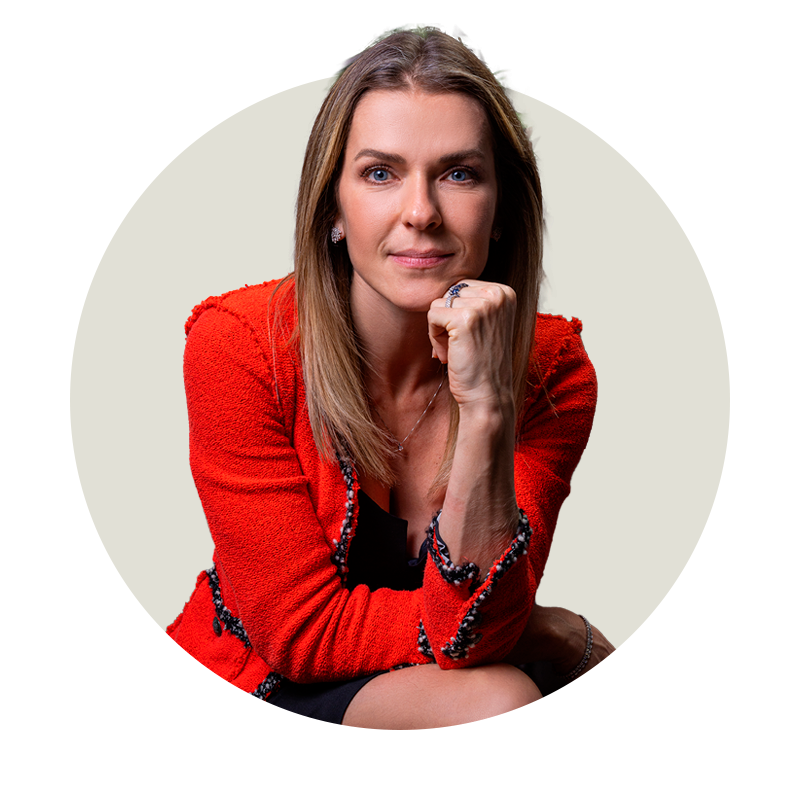
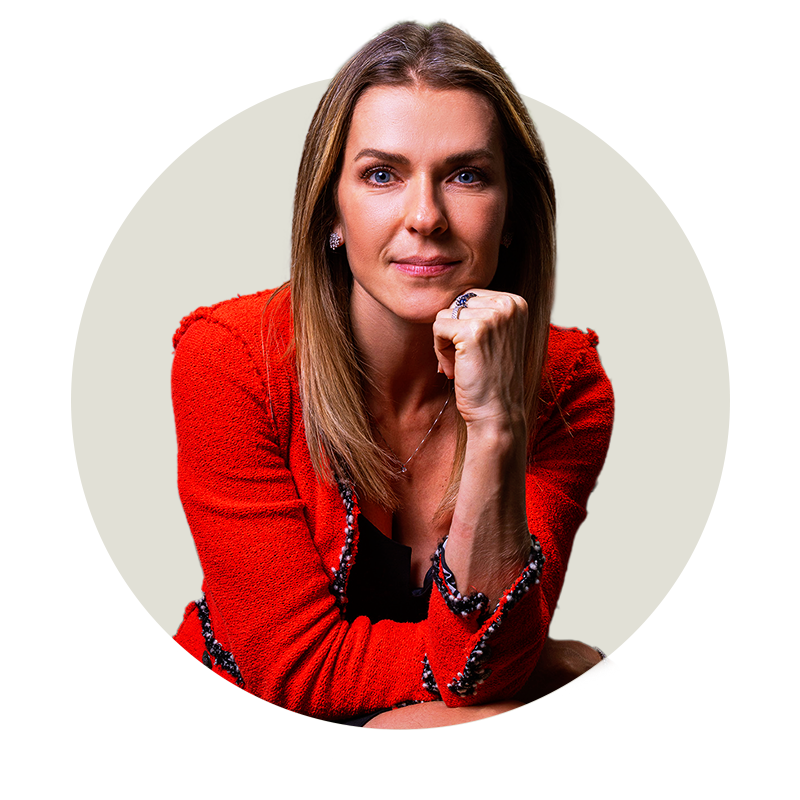
Layout changes

Changed region(s): [[0.1875, 0.0, 0.7812, 0.9375]]

diff --git a/src/components/OurTeamSection.tsx b/src/components/OurTeamSection.tsx
@@ -1,0 +1,333 @@
+// src/components/OurTeamSection.tsx
+import React, { useState } from 'react';
+import { motion, AnimatePresence } from 'framer-motion';
+import { X } from 'lucide-react';
+
+interface Person {
+  id: string;
+  name: string;
+  title: string;
+  email: string;
+  image: string;
+  linkedinUrl: string;
+  description: string;
+}
+
+const persons: Person[] = [
+  {
+    id: 'fernanda-amorim',
+    name: 'Fernanda Amorim',
+    title: 'Managing Partner',
+    email: 'fernanda.amorim@dayonetalent.com',
+    image: '/img/Fernanda.png',
+    linkedinUrl: 'https://www.linkedin.com/in/fernandaamorim/',
+    description: 
+        `Fernanda Amorim brings over 20 years of experience in executive search, with a strong track record leading more than 400 projects, and a reputation of delivering tailored, high-impact solutions with assertiveness and a sharp insight into digital transformation and human connections. \n
+        She built her career in global firms such as KPMG, Michael Page, Page Executive, Oracle, and Indeed, where she developed deep expertise in business strategy and strategic hiring, as well as consultative B2B leadership. \n
+        Most recently, as a Sr. Executive Partner at FIND HR, she led top management recruitment across players in tech, telecom and digital and championed diversity in leadership.`
+  },
+  {
+    id: 'claudio-guerreiro',
+    name: 'Claudio Guerreiro',
+    title: 'Managing Partner',
+    email: 'claudio.guerreiro@dayonetalent.com',
+    image: '/img/Claudio.png',
+    linkedinUrl: 'https://www.linkedin.com/in/claudio-guerreiro/',
+    description: 
+        `With over 20 years of experience in the technology sector, acquired at companies such as SAP and IBM, Claudio Guerreiro built a solid career as an executive before becoming an entrepreneur and entering the executive search market, where he worked as a partner at renowned consultancies such as 2Get and Heidrick & Struggles, in addition to being a board member of innovative companies. \n
+        At FIND HR, he led the company's strategic expansion, expanding its service offering and strengthening its presence in executive recruitment for technology and digital transformation roles. \n
+        His approach combines deep industry knowledge with a strong results-oriented mindset, focusing on assertiveness and excellence in executive recruitment.`
+  },
+  {
+    id: 'carla-viborny',
+    name: 'Carla Vyborny',
+    title: 'Associate',
+    email: 'carla.vyborny@dayonetalent.com',
+    image: '/img/Carla.png',
+    linkedinUrl: 'https://www.linkedin.com/in/carla-vyborny-96554523/',
+    description: 
+        `Carla has over 15 years of experience in executive recruitment, with a strong focus on leadership and senior management roles. She is recognized for her ability to deliver highly accurate, tailored solutions by combining business acumen, deep market knowledge, and a human-centered approach to professional connections. \n
+        She built her career in specialized recruitment consultancies and executive search firms, working with companies such as Michael Page, Hays, Robert Walters, FIND, and Vyborny’s Consulting. She has contributed to strategic projects for major groups in the technology, industrial, and retail sectors. \n
+        Throughout her career, she has developed expertise in building high-performance teams and supporting companies during moments of transformation, growth, or restructuring—always with a focus on strategic leadership and diversity. Her work emphasizes innovation, agility, and real business impact.`
+  },
+  {
+    id: 'roberta-viborny',
+    name: 'Roberta Vyborny',
+    title: 'Associate',
+    email: 'roberta.vyborny@dayonetalent.com',
+    image: '/img/Roberta.png',
+    linkedinUrl: 'https://www.linkedin.com/in/roberta-vyborny-389ba123/',
+    description: 
+        `An experienced professional with over 10 years in recruitment and selection, Roberta has a strong track record in strategic and leadership roles. Throughout her career, she has developed solid expertise in attracting, selecting, and developing talent for mid- and senior-level positions, directly contributing to the formation of high-performance teams and the strengthening of organizational culture in major companies. \n
+        Her experience includes working as a Manager at Calzedonia Group, a global Italian retail company, where she led recruitment processes and market mapping initiatives. In addition, she has collaborated with specialized recruitment consultancies, delivering strategic projects for leading groups in the retail, industrial, and technology sectors—always focused on results, agility, and excellence in delivery. \n
+        She is recognized for her analytical mindset, organizational diagnostic skills, and ability to align professional profiles with the unique needs of each business.`
+  }
+];
+
+// Group persons by their title
+const groupedPersons = persons.reduce((acc, person) => {
+  if (!acc[person.title]) {
+    acc[person.title] = [];
+  }
+  acc[person.title].push(person);
+  return acc;
+}, {} as Record<string, Person[]>);
+
+const formatDescription = (text: string): string[] => {
+  return text.split('\n\n').map(paragraph => paragraph.trim()).filter(p => p.length > 0);
+};
+
+// LinkedIn Icon Component
+const LinkedInIcon = () => (
+  <svg className="w-5 h-5 text-accent hover:text-accent-light transition-colors duration-300" fill="currentColor" viewBox="0 0 24 24">
+    <path d="M20.447 20.452h-3.554v-5.569c0-1.328-.027-3.037-1.852-3.037-1.853 0-2.136 1.445-2.136 2.939v5.667H9.351V9h3.414v1.561h.046c.477-.9 1.637-1.85 3.37-1.85 3.601 0 4.267 2.37 4.267 5.455v6.286zM5.337 7.433a2.062 2.062 0 01-2.063-2.065 2.064 2.064 0 112.063 2.065zm1.782 13.019H3.555V9h3.564v11.452zM22.225 0H1.771C.792 0 0 .774 0 1.729v20.542C0 23.227.792 24 1.771 24h20.451C23.2 24 24 23.227 24 22.271V1.729C24 .774 23.2 0 22.222 0h.003z"/>
+  </svg>
+);
+
+const TeamMember = ({ person }: { person: Person }) => {
+  const [isModalOpen, setIsModalOpen] = useState(false);
+  const paragraphs = formatDescription(person.description);
+
+  const openModal = () => setIsModalOpen(true);
+  const closeModal = () => setIsModalOpen(false);
+
+  return (
+    <>
+      <div className="group overflow-hidden transition-all duration-300 relative">
+        <div className="relative z-10">
+          {/* Image Section */}
+          <div className="p-6 pb-0">
+            <div className="relative mb-6">
+              <motion.img
+                src={person.image}
+                alt={person.name}
+                className="w-full max-w-xs mx-auto object-cover transition-shadow duration-300 cursor-pointer"
+                onClick={openModal}
+                whileHover={{ scale: 1.02 }}
+                transition={{ duration: 0.2 }}
+              />
+            </div>
+          </div>
+          
+          {/* Content Section */}
+          <div className="p-6 pt-0">
+            {/* Name and LinkedIn */}
+            <div className="text-center mb-4">
+              <a 
+                href={person.linkedinUrl} 
+                target="_blank" 
+                rel="noopener noreferrer"
+                className="inline-flex items-center justify-center gap-3 group-link"
+                title={`LinkedIn of ${person.name}`}
+              >
+                <motion.h4 
+                  className="text-xl lg:text-2xl text-accent hover:text-accent/80 font-semibold transition-colors duration-300"
+                  whileHover={{ y: -1 }}
+                >
+                  {person.name}
+                </motion.h4>
+                <LinkedInIcon />
+              </a>
+            </div>
+            
+            {/* Description Preview */}
+            <div className="text-dark text-sm lg:text-base leading-relaxed space-y-3">
+              {paragraphs.slice(0, 1).map((paragraph, index) => (
+                <p key={index} className="text-justify">
+                  {paragraph}
+                </p>
+              ))}
+              
+              {/* Read More Button */}
+              {paragraphs.length > 2 && (
+                <div className="pt-2">
+                  <motion.button 
+                    onClick={openModal}
+                    className="text-accent hover:text-accent/80 flex items-center group-btn transition-colors duration-300 text-sm font-medium"
+                    whileHover={{ x: 4 }}
+                    transition={{ duration: 0.2 }}
+                  >
+                    Read More 
+                    <motion.svg 
+                      width="16" 
+                      height="16" 
+                      fill="currentColor" 
+                      className="ml-1" 
+                      viewBox="0 0 24 24"
+                      whileHover={{ x: 2 }}
+                      transition={{ duration: 0.2 }}
+                    >
+                      <path d="M8.59 16.59L13.17 12 8.59 7.41 10 6l6 6-6 6-1.41-1.41z"/>
+                    </motion.svg>
+                  </motion.button>
+                </div>
+              )}
+            </div>
+          </div>
+        </div>
+      </div>
+
+      {/* Modal with Cookie Consent Style Backdrop */}
+      <AnimatePresence>
+        {isModalOpen && (
+          <div className="fixed inset-0 z-[9999] flex items-center justify-center p-4">
+            {/* Backdrop with blur effect */}
+            <motion.div 
+              initial={{ opacity: 0 }}
+              animate={{ opacity: 1 }}
+              exit={{ opacity: 0 }}
+              className="absolute inset-0 bg-black/20 backdrop-blur-sm"
+              onClick={closeModal}
+            />
+
+            {/* Modal */}
+            <motion.div 
+              initial={{ opacity: 0, y: 50, scale: 0.95 }}
+              animate={{ opacity: 1, y: 0, scale: 1 }}
+              exit={{ opacity: 0, y: 50, scale: 0.95 }}
+              transition={{ type: "spring", damping: 25, stiffness: 300 }}
+              className="relative w-full max-w-2xl bg-dark border border-secondary/20 rounded-xl shadow-2xl"
+              onClick={(e) => e.stopPropagation()}
+            >
+              {/* Background effects */}
+              <div className="absolute -right-16 -top-16 w-32 h-32 bg-accent/10 rounded-full blur-2xl opacity-70"></div>
+              <div className="absolute -left-16 -bottom-16 w-32 h-32 bg-accent/10 rounded-full blur-2xl opacity-70"></div>
+
+              <div className="relative z-10">
+                {/* Modal Header */}
+                <div className="sticky top-0 bg-dark/95 backdrop-blur-sm border-b border-secondary/20 p-6 flex items-center justify-between rounded-t-xl">
+                  <div className="flex items-center gap-4">
+                    <img 
+                      src={person.image} 
+                      alt={person.name}
+                      className="absolute w-[110px] -left-[20px] -top-[22px] md:w-[150px] md:-left-[50px] md:top-0"
+                    />
+                    <div className="ml-[65px] md:ml-[80px]">
+                      <h3 className="text-xl font-semibold text-secondary">{person.name}</h3>
+                      <p className="text-secondary/60 text-sm">{person.title}</p>
+                    </div>
+                  </div>
+                  <motion.button 
+                    onClick={closeModal}
+                    className="p-2 hover:bg-secondary/10 rounded-lg transition-colors duration-200"
+                    whileHover={{ scale: 1.05 }}
+                    whileTap={{ scale: 0.95 }}
+                  >
+                    <X className="w-5 h-5 text-secondary/60" />
+                  </motion.button>
+                </div>
+                
+                {/* Modal Content */}
+                <div className="p-6 overflow-y-auto max-h-[calc(90vh-120px)]">
+                  <div className="flex items-center gap-3 mb-6">
+                    <motion.a 
+                      href={person.linkedinUrl} 
+                      target="_blank" 
+                      rel="noopener noreferrer"
+                      className="flex items-center gap-2 text-accent hover:text-accent-light transition-colors duration-300"
+                      whileHover={{ scale: 1.02 }}
+                    >
+                      <LinkedInIcon />
+                      Connect on LinkedIn
+                    </motion.a>
+                  </div>
+                  
+                  <div className="text-secondary/80 leading-relaxed space-y-4">
+                    {paragraphs.map((paragraph, index) => (
+                      <motion.p 
+                        key={index}
+                        className="text-justify"
+                        initial={{ y: 20, opacity: 0 }}
+                        animate={{ y: 0, opacity: 1 }}
+                        transition={{ delay: index * 0.1 }}
+                      >
+                        {paragraph}
+                      </motion.p>
+                    ))}
+                  </div>
+                </div>
+              </div>
+            </motion.div>
+          </div>
+        )}
+      </AnimatePresence>
+    </>
+  );
+};
+
+const OurTeamSection = () => {
+  return (
+    <section id="our-team" className="section bg-light">
+      <div className="container mx-auto px-4 py-16">
+        <motion.h2 
+          className="text-3xl md:text-4xl font-bold mb-12 text-accent text-center"
+          initial={{ y: 20, opacity: 0 }}
+          whileInView={{ y: 0, opacity: 1 }}
+          transition={{ duration: 0.6 }}
+          viewport={{ once: true }}
+        >
+          Our Team
+        </motion.h2>
+        
+        <motion.p 
+          className="text-primary text-center max-w-full md:max-w-1/2 m-auto mb-8"
+          initial={{ y: 20, opacity: 0 }}
+          whileInView={{ y: 0, opacity: 1 }}
+          transition={{ duration: 0.6, delay: 0.2 }}
+          viewport={{ once: true }}
+        >
+          At DAYONE, we believe that every great impact begins with the energy of the first day — and that true transformation happens when that
+          energy is renewed, every single day. We focus on identifying leaders who don't just adapt — they drive the evolution of our clients.
+        </motion.p>
+        
+        {Object.entries(groupedPersons).map(([title, groupPersons], groupIndex) => (
+          <motion.div 
+            key={title} 
+            className="mt-24 last:mb-0"
+            initial={{ y: 40, opacity: 0 }}
+            whileInView={{ y: 0, opacity: 1 }}
+            transition={{ duration: 0.6, delay: groupIndex * 0.2 }}
+            viewport={{ once: true }}
+          >
+            <h3 className="text-xl lg:text-2xl font-bold text-primary font-mono mb-8 text-center">
+              {title}s
+            </h3>
+            
+            <div className="grid grid-cols-1 lg:grid-cols-2 gap-8 lg:gap-12 max-w-6xl mx-auto">
+              {groupPersons.map((person, index) => (
+                <motion.div
+                  key={person.id}
+                  initial={{ y: 40, opacity: 0 }}
+                  whileInView={{ y: 0, opacity: 1 }}
+                  transition={{ duration: 0.6, delay: index * 0.1 }}
+                  viewport={{ once: true }}
+                >
+                  <TeamMember person={person} />
+                </motion.div>
+              ))}
+            </div>
+          </motion.div>
+        ))}
+        
+        {/* Brand Symbol */}
+        <motion.div 
+          className="text-center mt-24"
+          initial={{ y: 20, opacity: 0 }}
+          whileInView={{ y: 0, opacity: 1 }}
+          transition={{ duration: 0.6 }}
+          viewport={{ once: true }}
+        >
+          <motion.img 
+            className="max-w-24 md:max-w-32 mx-auto opacity-60 hover:opacity-80 transition-opacity duration-300" 
+            src="/img/DayOne_Symbol.svg" 
+            alt="DayOne Brain Symbol"
+            whileHover={{ scale: 1.05, rotate: 5 }}
+            transition={{ duration: 0.3 }}
+          />
+        </motion.div>
+      </div>
+    </section>
+  );
+};
+
+export default OurTeamSection;

diff --git a/src/components/MobileNav.tsx b/src/components/MobileNav.tsx
@@ -2,8 +2,8 @@
 import { useState, useEffect } from 'react';
 import { Menu, X } from 'lucide-react';
 import { motion, AnimatePresence } from 'framer-motion';
-import { Image } from 'astro:assets';
-import logo from '../assets/DayOne_Logo_Light.png';
+// import { Image } from 'astro:assets';
+// import logo from '../assets/DayOne_Logo_Light.png';
 
 function MobileNav() {
   const [isMenuOpen, setIsMenuOpen] = useState(false);
@@ -131,10 +131,10 @@ function MobileNav() {
             >
               {/* Header */}
               <div className="flex justify-between items-center p-6 border-b border-secondary/20">
-                <Image 
-                  src={logo} 
+                <img 
+                  src="./src/assets/DayOne_Logo_Light.png" 
                   alt="Logo DayOne" 
-                  class="h-8 w-auto" 
+                  className="h-8 w-auto" 
                 />
               </div>
 
@@ -167,7 +167,7 @@ function MobileNav() {
               {/* CTA Section */}
               <div className="p-6 border-t border-secondary/20">
                 <button 
-                  className="w-full bg-accent text-white hover:bg-accent/90 transition-colors px-6 py-4 rounded-full font-medium text-lg"
+                  className="w-full bg-accent text-white hover:bg-accent/90 transition-colors px-3 py-2 md:px-6 md:py-4 rounded-full font-medium text-lg"
                   onClick={handleContactClick}
                   type="button"
                 >
